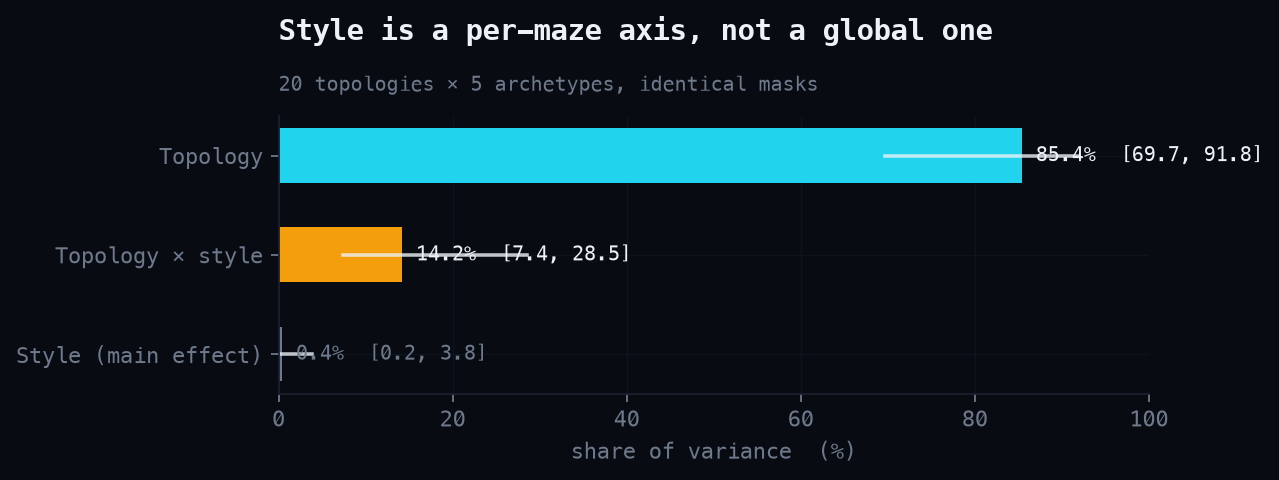
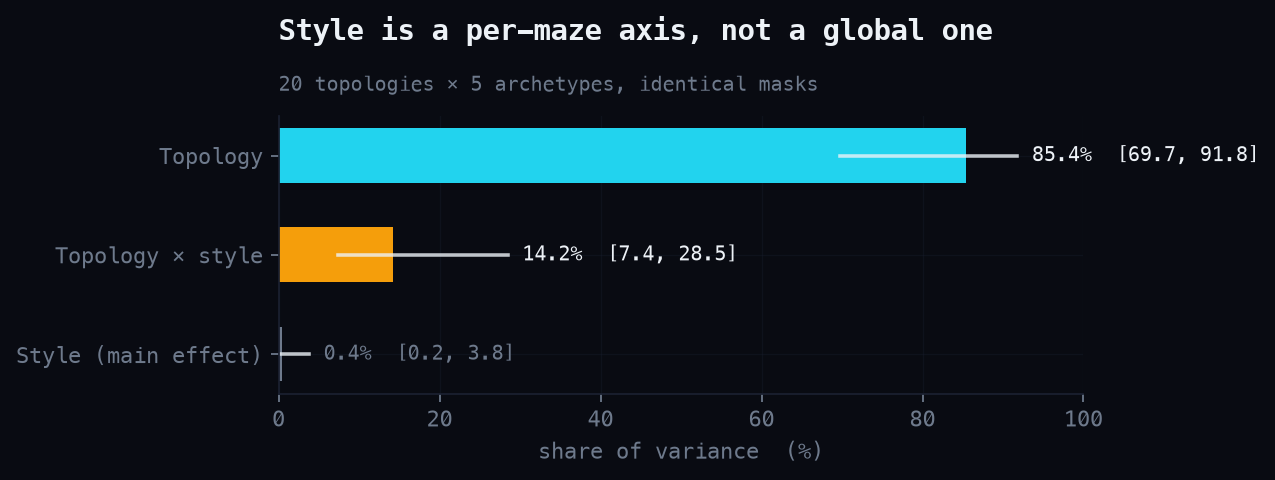
QC every figure; fix all found defects; drop the blind chart
Inspected all eleven renders individually and fixed what was actually wrong:
- tiers: four model labels piled illegibly at the hard-tier convergence; now
  spread into non-overlapping slots that preserve order
- variance: CI whiskers ran straight through the value labels; labels now
  clear the whisker's upper bound
- feedback: the GPT-medium delta read -23pp against the published -24pp
  (recomputed from rounded bar values); deltas now carry the published numbers
- fingerprints: callout collided with the Inkling label, and the xhigh label
  fell off the left edge; leader arrows dropped, everything hand-placed clear
- resolution subtitle: 'resent' -> 're-sent'
- every subtitle shortened to a single short line
- blind-control chart deleted (a bar chart of uniform zeros carries nothing
  the one-line table doesn't); the study keeps the table

diff --git a/scripts/make_figures.py b/scripts/make_figures.py
@@ -104,8 +104,7 @@ def fig_leaderboard(rows):
     ax.set_yticks(y, [NAMES[p] for *_, p in data])
     ax.set_xlim(0, 100)
     ax.set_xlabel("pass@1  (%)")
-    _frame(ax, "Leaderboard", "100 mazes × 8 attempts · bars are pass@1, ghost bars pass@8, "
-                              "whiskers 95% CI clustered over tasks")
+    _frame(ax, "Leaderboard", "100 mazes × 8 attempts · ghost bars pass@8 · whiskers 95% CI")
     save(fig, "01-leaderboard.png")
 
 
@@ -118,13 +117,25 @@ def fig_tiers(rows):
         if r.get("tier"):
             per[r["provider"]][r["tier"]].append(bool((r.get("evaluation") or {}).get("success")))
     fig, ax = plt.subplots(figsize=(8, 4.4))
+    finals = {}
     for p in ORDER:
         vals = [100 * sum(per[p][t]) / len(per[p][t]) if per[p][t] else np.nan for t in tiers]
         lead = p.startswith("gpt")
         ax.plot(tiers, vals, marker="o", lw=2.4 if lead else 1.6,
                 color=CYAN if p == "gpt-xhigh" else (WHITE if p == "openai" else DIM),
-                alpha=1.0 if lead else 0.75, label=NAMES[p])
-        ax.text(2.04, vals[-1], NAMES[p], color=CYAN if p == "gpt-xhigh" else DIM,
+                alpha=1.0 if lead else 0.75)
+        finals[p] = vals[-1]
+    # Hard-tier values crowd near zero; spread the labels into non-overlapping
+    # slots (>=4.5pp apart) while keeping their order.
+    order_by_val = sorted(ORDER, key=lambda p: finals[p])
+    slot = None
+    slots = {}
+    for p in order_by_val:
+        y = finals[p]
+        slot = y if slot is None else max(y, slot + 4.5)
+        slots[p] = slot
+    for p in ORDER:
+        ax.text(2.04, slots[p], NAMES[p], color=CYAN if p == "gpt-xhigh" else DIM,
                 fontsize=8, va="center")
     ax.set_ylabel("pass@1  (%)")
     ax.set_xlim(-0.15, 2.9)
@@ -154,8 +165,7 @@ def fig_effort():
     ax.set_xlim(-0.1, 4.4)
     ax.set_ylim(0, 80)
     _frame(ax, "Only GPT converts test-time compute into accuracy",
-           "25-task sweep set × 3 trials. Gemini returns 32% three times across a "
-           "6× increase in thinking tokens")
+           "25-task sweep × 3 trials per level")
     save(fig, "03-effort.png")
 
 
@@ -180,8 +190,7 @@ def fig_tolerance():
     ax.set_xlabel("pointer radius (px)")
     ax.set_ylabel("pass@1  (%)")
     ax.set_xlim(0.5, 11.5)
-    _frame(ax, "The ranking never inverts", "re-scoring stored submissions at other tolerances — "
-                                            "no order change anywhere from 1px to 8px")
+    _frame(ax, "The ranking never inverts", "stored submissions re-scored at pointer radii 1–8px")
     save(fig, "04-tolerance.png")
 
 
@@ -243,27 +252,28 @@ def fig_resolution():
     ax.set_ylabel("pass@1  (%)")
     ax.set_xlim(-0.1, 2.9)
     _frame(ax, "Kimi doubles on pixels alone",
-           "same mazes, resent at other resolutions — and its effort ladder was flat at ~16%")
+           "same mazes, re-sent at 0.5× and 2× resolution")
     save(fig, "06-resolution.png")
 
 
 def fig_feedback():
-    data = [("gpt-xhigh", 60, 63), ("openai", 25, 48), ("gemini", 8, 24),
-            ("kimi", 12, 18), ("anthropic", 9, 14)]
+    # (provider, rescue %, blind-retry %, published delta)
+    data = [("gpt-xhigh", 60, 63, -3), ("openai", 25, 48, -24), ("gemini", 8, 24, -16),
+            ("kimi", 12, 18, -6), ("anthropic", 9, 14, -5)]
     fig, ax = plt.subplots(figsize=(8.4, 4.2))
     y = np.arange(len(data))
     ax.barh(y - 0.19, [d[2] for d in data], height=0.36, color="#3B4658", label="blind retry")
     ax.barh(y + 0.19, [d[1] for d in data], height=0.36, color=RED,
             label="retry after seeing its own error")
-    for i, (p, resc, blind) in enumerate(data):
-        ax.text(max(resc, blind) + 1.2, i, f"{resc-blind:+d}pp", va="center",
+    for i, (p, resc, blind, delta) in enumerate(data):
+        ax.text(max(resc, blind) + 1.2, i, f"{delta:+d}pp", va="center",
                 color=RED, fontsize=9, fontweight="bold")
     ax.set_yticks(y, [NAMES[p] for p, *_ in data])
     ax.set_xlabel("recovery rate after a failed first attempt  (%)")
     ax.legend(fontsize=8, frameon=False, labelcolor=DIM, loc="lower right")
     ax.invert_yaxis()
     _frame(ax, "Showing a model its own mistake makes it worse",
-           "episodes whose first turn failed. No model beats simply trying again")
+           "only episodes whose first attempt failed")
     save(fig, "07-feedback.png")
 
 
@@ -276,8 +286,8 @@ def fig_variance():
     for i, (name, share, ci, colr) in enumerate(comps):
         ax.barh(i, share, height=0.55, color=colr)
         ax.plot(ci, [i, i], color=WHITE, lw=1.6, alpha=0.8)
-        ax.text(share + 1.6, i, f"{share:.1f}%  [{ci[0]:.1f}, {ci[1]:.1f}]", va="center",
-                color=WHITE if i < 2 else DIM, fontsize=9)
+        ax.text(max(share, ci[1]) + 1.8, i, f"{share:.1f}%  [{ci[0]:.1f}, {ci[1]:.1f}]",
+                va="center", color=WHITE if i < 2 else DIM, fontsize=9)
     ax.set_yticks(y, [c[0] for c in comps])
     ax.set_xlim(0, 100)
     ax.set_xlabel("share of variance  (%)")
@@ -311,32 +321,8 @@ def fig_dimensions():
     ax.set_xlim(0, 80)
     ax.invert_yaxis()
     _frame(ax, "Telling the model the canvas size redistributes, nets ~zero",
-           "100 mazes × 2 trials, paired per task against the main run")
+           "100 mazes × 2 trials, paired with the main run")
     save(fig, "10-dimensions.png")
-
-
-def fig_blind():
-    """The blind control as a picture: sighted vs blank vs wrong image."""
-    sighted = {"gpt-xhigh": 68, "openai": 54, "gemini": 26, "kimi": 20,
-               "anthropic": 18, "muse-spark": 4, "inkling": 0}
-    fig, ax = plt.subplots(figsize=(8.4, 4.2))
-    y = np.arange(len(ORDER))
-    ax.barh(y - 0.2, [sighted[p] for p in ORDER], height=0.38,
-            color="#2B7A8C", label="real image")
-    ax.barh(y + 0.2, [0] * len(ORDER), height=0.38, color=RED)
-    for i, p in enumerate(ORDER):
-        ax.text(sighted[p] + 1.2, i - 0.2, f"{sighted[p]}%", va="center",
-                color=DIM, fontsize=9)
-        ax.text(1.2, i + 0.2, "0%  blank · 0%  wrong image", va="center",
-                color=RED, fontsize=8)
-    ax.set_yticks(y, [NAMES[p] for p in ORDER])
-    ax.set_xlim(0, 80)
-    ax.set_xlabel("pass@1  (%)  ·  25 tasks × 2 trials per condition")
-    ax.invert_yaxis()
-    ax.legend(fontsize=8, frameon=False, labelcolor=DIM, loc="lower right")
-    _frame(ax, "Take the image away and every model drops to zero",
-           "same tasks, same prompt — only the pixels change. 0 passes in 700 attempts")
-    save(fig, "11-blind.png")
 
 
 def fig_fingerprints():
@@ -347,7 +333,7 @@ def fig_fingerprints():
     loc = {"gpt-xhigh": 1.3, "openai": 1.3, "kimi": 1.8, "gemini": 2.1,
            "anthropic": 2.1, "muse-spark": 8.2, "inkling": 24.7}
     # (dx, dy multiplier, alignment) per label, to keep them off each other
-    nudge = {"gpt-xhigh": (1.5, 0.88, "left"), "openai": (1.5, 1.12, "left"),
+    nudge = {"gpt-xhigh": (1.2, 0.86, "left"), "openai": (1.5, 1.14, "left"),
              "kimi": (1.5, 1.0, "left"), "gemini": (1.5, 1.0, "left"),
              "anthropic": (-1.5, 1.0, "right"), "muse-spark": (1.5, 1.0, "left"),
              "inkling": (-1.5, 1.0, "right")}
@@ -360,20 +346,17 @@ def fig_fingerprints():
         dx, dy, ha = nudge[p]
         ax.text(snap[p] + dx, loc[p] * dy, NAMES[p], fontsize=8, color=colr,
                 va="center", ha=ha)
-    ax.annotate("reads the image:\nmessy decimals, starts on the badge",
-                xy=(9, 1.3), xytext=(24, 0.72), color=CYAN, fontsize=8.5,
-                arrowprops=dict(arrowstyle="-", color=CYAN, lw=0.8, alpha=0.6))
-    ax.annotate("invents the answer:\nround numbers, misses the badge",
-                xy=(66, 22), xytext=(38, 12), color=RED, fontsize=8.5,
-                arrowprops=dict(arrowstyle="-", color=RED, lw=0.8, alpha=0.6))
+    ax.text(2, 0.66, "reads the image:\nmessy decimals, starts on the badge",
+            color=CYAN, fontsize=8.5)
+    ax.text(50, 13, "invents the answer:\nround numbers, misses the badge",
+            color=RED, fontsize=8.5, va="top")
     ax.set_xlabel("share of coordinates that are round numbers (exact 0.01 grid)")
     ax.set_ylabel("how far the path starts from\nthe start badge (median px, log)")
     ax.set_yscale("log")
     ax.set_xlim(0, 88)
     ax.set_ylim(0.55, 45)
     _frame(ax, "Is the model measuring, or making numbers up?",
-           "every submitted coordinate, two questions: are the numbers round, and does\n"
-           "the path begin where the start badge actually is")
+           "two signals from the submitted coordinates alone")
     save(fig, "09-fingerprints.png")
 
 
@@ -389,7 +372,6 @@ def main():
     fig_feedback()
     fig_variance()
     fig_dimensions()
-    fig_blind()
     fig_fingerprints()
 
 

diff --git a/scripts/build_site.py b/scripts/build_site.py
@@ -33,7 +33,6 @@ FIGURES = [
     ("06-resolution.png", "Kimi doubles on pixels alone — its effort ladder was flat."),
     ("07-feedback.png", "Seeing its own mistake beats a blind retry for no model."),
     ("10-dimensions.png", "Disclosing the canvas size helps some models exactly as much as it hurts others."),
-    ("11-blind.png", "Take the image away and every model drops to zero — the scores come from seeing."),
     ("08-variance.png", "Style is a per-maze difficulty axis: tiny main effect, 20× larger interaction."),
     ("09-fingerprints.png", "Measuring vs. writing round numbers: Inkling snaps to a 0.01 grid and misses the badge by 25px."),
 ]

diff --git a/STUDY.md b/STUDY.md
@@ -259,8 +259,6 @@ priors about where goals sit, geometry that "usually works." A blank canvas
 measures that floor; *another maze's* image is the stricter probe, catching a
 model that uses generic vision but not this picture.
 
-![Blind](results/figures/11-blind.png)
-
 25 tasks × 2 trials × 7 models × {blank canvas, another task's image}:
 **0 passes in 700 scored attempts**, route progress ~0.000 throughout. Blind
 failure is *total, not degraded* — 97% of attempts never begin on the start
